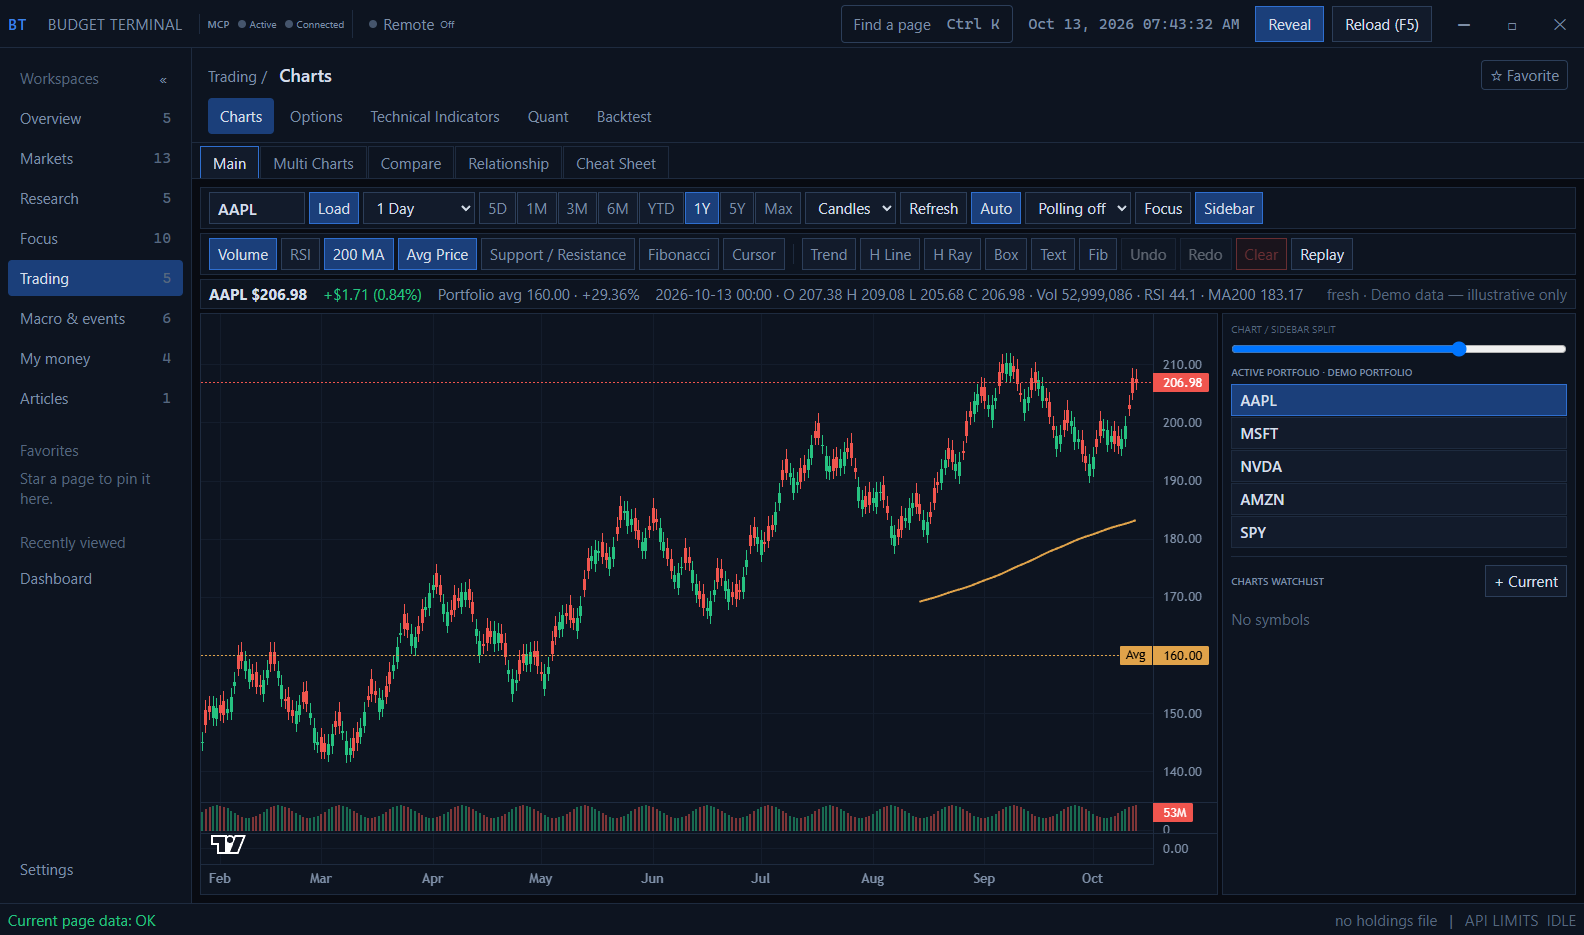
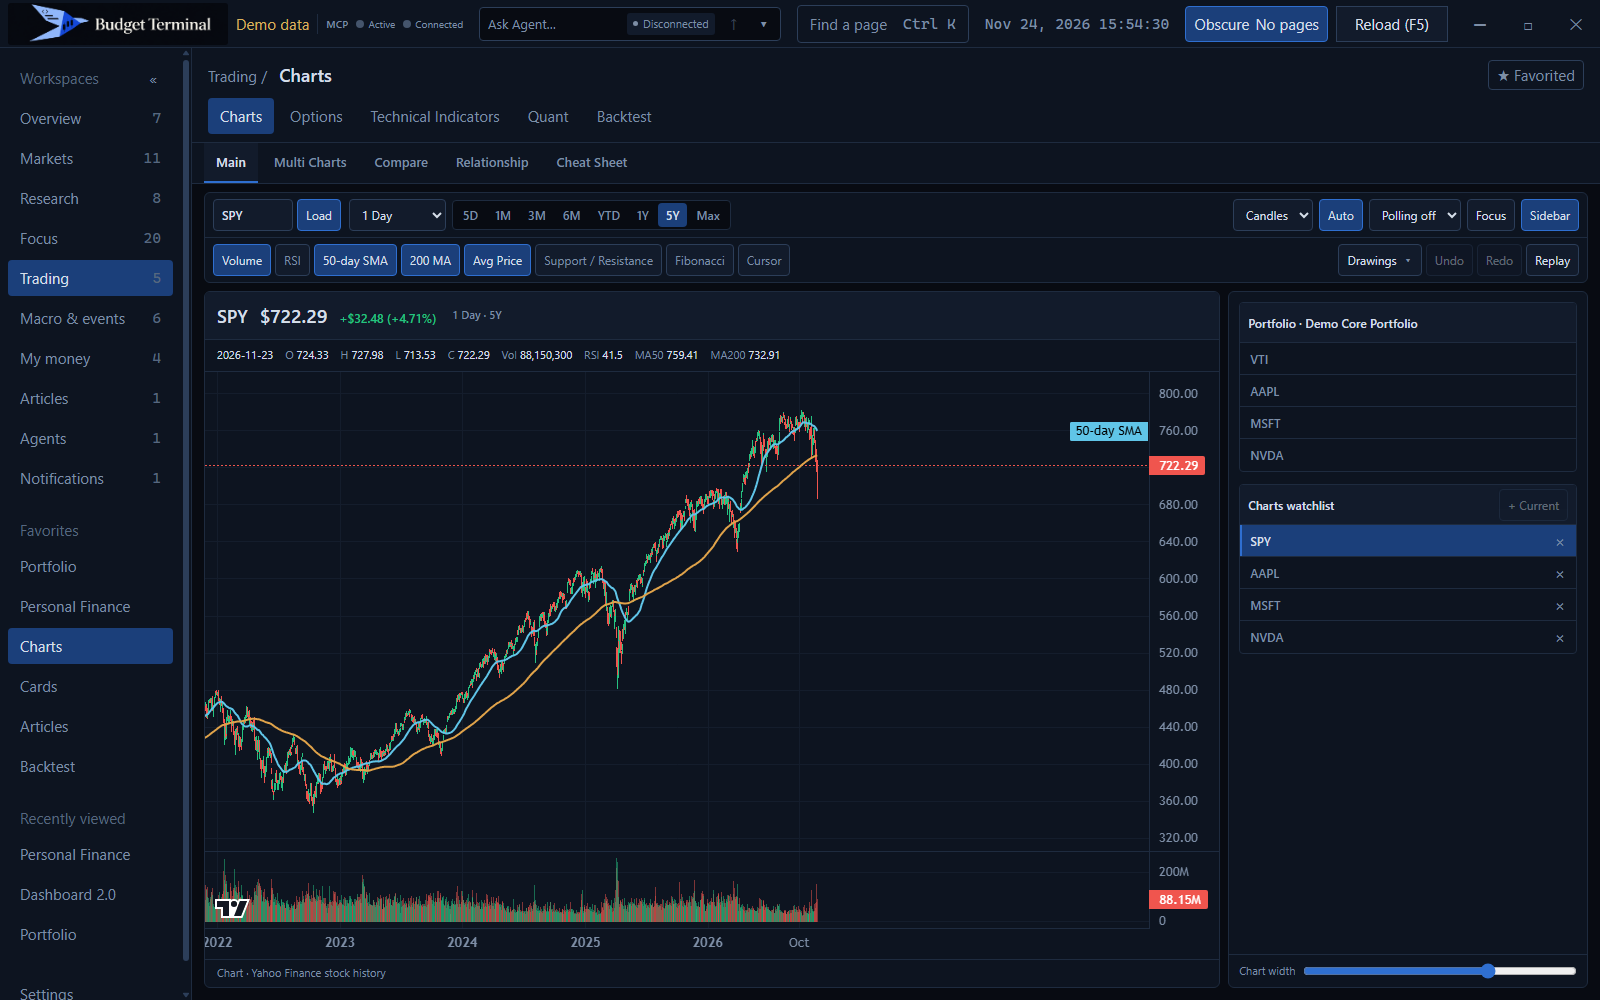
Refresh GitHub overview with desktop and mobile demo screenshots

diff --git a/README.md b/README.md
@@ -19,6 +19,7 @@
 <p align="center">
   <a href="#quick-start">Quick start</a> ·
   <a href="#screenshots">Screenshots</a> ·
+  <a href="#mobile-ui-showcase">Mobile UI</a> ·
   <a href="#explore-the-workspaces">Workspaces</a> ·
   <a href="#documentation">Documentation</a> ·
   <a href="https://github.com/Wong-Zhen-Yi/Budget-Terminal-2.0/issues">Report an issue</a>
@@ -49,86 +50,101 @@ research pages.
 | **Saved pages at launch** | Use cached content while every page refreshes. Settings controls separate page, market-data and image budgets, retention and cache diagnostics. |
 | **🔗 Extend your workspace** | Connect local research tools through MCP while keeping the workspace in the desktop app. |
 | **Work with Agents** | Use the embedded Codex workspace for research and local alerts, with autonomous mode off by default. |
+| **Use your phone** | Open a connected phone viewport on Windows, or enable private phone and tablet access through Tailscale. Telegram provides mobile links and agent quick prompts when configured. |
 
 ## Screenshots
 
-Explore eight views across markets, research, charting, portfolios, and learning.
-The captures use isolated demo profiles or isolated page components with synthetic
-fixtures. Holdings, prices, probabilities, headlines, and indicator values are
-illustrative sample data, not live quotes or personal records. See
-[capture details](docs/assets/screenshots/README.md).
+Captured from the **rendered desktop app** on 24 November 2026 using the checked-in
+[demo portfolio](fixtures/demo-user-data.json), with the full application shell and
+current dark theme. Holdings and financial records are fictional. Market panels
+use the usual public providers and may contain delayed, cached, or unavailable data.
+See [capture details](docs/assets/screenshots/README.md).
 
-### Dashboard
+### Portfolio
 
-Market snapshots, portfolio holdings, price action, analyst targets, and options
-in one workspace.
+The Demo Core Portfolio brings positions, cost basis, gains, cash, and portfolio
+controls together. A second Demo Income Portfolio is included in the demo profile.
 
-![Budget Terminal Dashboard with demo holdings, a candlestick chart, market snapshots, and options tables](docs/assets/screenshots/dashboard.png)
+![Rendered Portfolio in the isolated demo app](docs/assets/screenshots/portfolio.png)
 
-### Polymarket — prediction market research
+### Dashboard 2.0
 
-Discover events and inspect outcome probabilities, price history, order-book depth,
-and market activity in a read-only workspace.
+A portfolio-led overview with market context and research tools.
 
-![Polymarket demo showing searchable market cards, an outcome probability chart, bid and ask depth, and recent activity](docs/assets/screenshots/polymarket.png)
+![Rendered Dashboard 2.0 in the isolated demo app](docs/assets/screenshots/dashboard-2.png)
 
 <details>
-<summary><strong>Semiconductors — supply chain and sector research</strong></summary>
+<summary><strong>Personal Finance</strong></summary>
 
-Explore industry stages, filter companies by subsector, compare performance, and
-follow company research and earnings context.
+Sample accounts, assets, liabilities, recurring bills, and a savings goal.
 
-![Semiconductors demo showing supply-chain stages, a chip-design company table, subsector performance, and linked research panels](docs/assets/screenshots/semiconductors.png)
+![Rendered Personal Finance in the isolated demo app](docs/assets/screenshots/personal-finance.png)
 
 </details>
 
 <details>
-<summary><strong>Crypto — spot watchlist, perpetual charts, and market breadth</strong></summary>
+<summary><strong>Charts</strong></summary>
 
-Keep spot quotes, a candlestick and volume chart, equity proxies, market breadth,
-and venue-specific perpetual funding and open interest together.
+Price action, volume, technical tools, and demo portfolio watchlists.
 
-![Crypto demo showing a spot watchlist, BTC perpetual candlesticks and volume, a top-30 breadth grid, and perpetual market statistics](docs/assets/screenshots/crypto.png)
-
-</details>
-
-<details>
-<summary><strong>Scorecard — compare companies and valuation metrics</strong></summary>
-
-Compare annual financials, margins, valuation multiples, and signed revenue growth
-across companies. Choose metrics and save named comparisons locally.
-
-![Scorecard demo comparing AMZN, MSFT, and GOOGL financial and valuation metrics with a signed revenue-growth bar chart](docs/assets/screenshots/scorecard.png)
+![Rendered Charts in the isolated demo app](docs/assets/screenshots/charts.png)
 
 </details>
 
 <details>
-<summary><strong>Dictionary — offline learning and illustrated chart patterns</strong></summary>
+<summary><strong>Focus Dashboard</strong></summary>
 
-Search 405 offline entries, save terms, and study chart patterns with diagrams,
-confirmation criteria, invalidation conditions, and a reading outline.
+Find company, industry, digital-asset, commodity, and macro research topics.
+Each topic has its own research layout.
 
-![Dictionary Reading Room showing an Ascending Channel entry, an illustrated candlestick pattern, topic navigation, saved terms, and a reading outline](docs/assets/screenshots/dictionary.png)
-
-</details>
-
-<details>
-<summary><strong>Charts — price action and technical tools</strong></summary>
-
-Candlestick history, volume, moving averages, drawing tools, and portfolio context.
-
-![Budget Terminal Charts workspace with demo candlesticks, volume, a moving average, and a portfolio sidebar](docs/assets/screenshots/charts.png)
+![Rendered Focus Dashboard in the isolated demo app](docs/assets/screenshots/focus-dashboard.png)
 
 </details>
 
 <details>
-<summary><strong>Portfolio — positions and allocation</strong></summary>
+<summary><strong>Dictionary</strong></summary>
 
-Position values, gains, portfolio weights, and performance snapshots.
+Browse offline financial terms and illustrated chart patterns.
 
-![Budget Terminal Portfolio workspace with a five-position demo portfolio, gains, and allocation bars](docs/assets/screenshots/portfolio.png)
+![Rendered Dictionary in the isolated demo app](docs/assets/screenshots/dictionary.png)
 
 </details>
+
+## Mobile UI showcase
+
+The same workspace adapts to phones with stacked panels, touch-sized controls,
+collapsible tools, and swipeable tables. Tap the page name to open **Workspaces**
+and search or select a page.
+
+<p align="center">
+  <img src="docs/assets/screenshots/mobile-portfolio.png" alt="Mobile Portfolio with fictional demo holdings and compact controls" width="30%">
+  <img src="docs/assets/screenshots/mobile-dashboard-2.png" alt="Mobile Dashboard 2.0 with stacked demo portfolio panels" width="30%">
+  <img src="docs/assets/screenshots/mobile-workspaces.png" alt="Mobile Workspaces navigation with searchable grouped page pills" width="30%">
+</p>
+
+<details>
+<summary><strong>Mobile Charts — price history and compact chart tools</strong></summary>
+
+<p align="center">
+  <img src="docs/assets/screenshots/mobile-charts.png" alt="Rendered mobile Charts with SPY candles, volume, and the demo portfolio sidebar" width="320">
+</p>
+
+</details>
+
+**How it works:** Budget Terminal stays open on your computer and serves the mobile
+UI with its shared saved records and market services. Enable **Settings → Labs →
+Mobile Access**, connect your computer and phone to the same Tailscale account,
+and open the private link in your phone browser. Telegram's `/mobile` command can
+send you that link when configured. Mobile edits save to the desktop records;
+page navigation and scroll positions are independent.
+
+On Windows, **Open phone viewport** in Settings opens a connected, resizable local
+window without Tailscale. To try sample data, use
+[Launch Budget Terminal Mobile Preview.cmd](launchers/windows/Launch%20Budget%20Terminal%20Mobile%20Preview.cmd).
+The images above are actual renders of that disposable preview at 390 × 844 CSS
+pixels, rather than captures from physical phones. Demo profiles
+cannot be shared remotely. See the [Mobile Access guide](docs/mobile-access.md)
+for setup and device-specific behavior.
 
 ## Quick start
 
@@ -318,21 +334,23 @@ npm run build
 npm run preview --workspace budget-terminal-desktop
 ```
 
-The build produces application bundles. Installer packaging and automatic
-application updates are not configured.
+The build produces application bundles. Installer packaging is not configured.
+Source updates are available through Settings and the launcher commands above;
+relaunch to rebuild the app.
 
 </details>
 
 ## Explore the workspaces
 
-The current navigation includes **58 implemented pages**, including Settings.
+The current navigation includes **67 implemented pages**, including Settings and two optional Labs pages.
+Enable Dashboard Lite and News Lite from Settings → Labs.
 
 | Workspace | Pages |
 | :--- | :--- |
-| **Overview** | Dashboard, Dashboard 2.0, News, Calendar, YouTube, Dictionary |
-| **Markets** | Pre-Market, Heatmap, Up/Down, Trading Volumes, Beta, Market Cap, Price, ETF, S&P500, Forex, Crypto, Polymarket, Gold, Oil |
+| **Overview** | Dashboard, Dashboard 2.0, Dashboard Lite (Labs), Pre-Market, News, News Lite (Labs), Calendar, YouTube, Dictionary |
+| **Markets** | Heatmap, Up/Down, Trading Volumes, Beta, Market Cap, Price, ETF, S&P500, Forex, Crypto, Polymarket |
 | **Research** | Browser, Stocks, Discovery, Fundamentals, Scorecard, DefeatBeta Terminal, Valuation, Institutions |
-| **Focus** | BMNR, Bitcoin, PLTR, HOOD, HIMS, SOFI, MU, AMZN, AVGO, Semiconductors, VST |
+| **Focus** | Focus Dashboard, Macro, BMNR, Bitcoin, Ethereum, PLTR, HOOD, HIMS, SOFI, MU, GOOGL, Anthropic, AMZN, AVGO, NVDA, Semiconductors, Homebuilders, VST, Gold, Oil |
 | **Trading** | Charts, Options, Technical Indicators, Quant, Backtest |
 | **Macro & events** | Global, Economic, Bonds, Money, IPO, Politics |
 | **My money** | Portfolio, Personal Finance, Cards, Projections |
@@ -461,8 +479,10 @@ The current comparison loads at startup, including when Scorecard is unvisited.
 - **Visible data quality.** Supported panels show source, freshness, coverage, and
   partial-data issues. Public feeds can vary in availability; cached results keep
   their limitations visible. See [startup and data freshness](docs/user-guide.md#startup-and-data-freshness).
-- **Desktop-only workspace.** Open Budget Terminal in Electron. Remote browser
-  access, pairing, and the built-in web server are no longer included.
+- **Desktop and connected mobile.** Run the main workspace in Electron. Optional
+  Mobile Access serves the same records and market services to phones and tablets
+  over Tailscale while the app runs. Windows also offers a resizable local phone
+  viewport, and a disposable mobile preview uses demo records. See [Mobile Access](docs/mobile-access.md).
 - **Local MCP tools.** Connect research and saved-record tools to supported local
   clients. Write tools edit local records, not broker orders. See the [MCP setup guide](docs/local-mcp.md).
 - **Optional encrypted credentials.** Settings → Integrations can store Finnhub

diff --git a/docs/assets/screenshots/README.md b/docs/assets/screenshots/README.md
@@ -1,33 +1,64 @@
 # GitHub screenshot gallery
 
-These PNGs show implemented Budget Terminal views in the existing dark theme.
-All displayed financial records, market values, probabilities, headlines, and
-company comparison figures are illustrative samples. They are not live data.
+Captured on 24 November 2026 from the current production Electron build at
+1600 × 1000 CSS pixels, using the repository's disposable demo session.
+All six desktop images include the actual desktop navigation and the **Demo data** label.
 
-The Dashboard, Charts, and Portfolio captures use an isolated demo profile.
-The additional feature captures render the real React page components in isolated
-Electron windows with the application's built stylesheet and synthetic fixtures.
-They show page content without the desktop navigation shell. Electron user data,
-`APPDATA`, and `LOCALAPPDATA` are redirected to temporary directories; personal
-profiles, saved credentials, browser sessions, and Agent conversations are not used.
+| Image | Rendered page |
+| :--- | :--- |
+| [Portfolio](portfolio.png) | Demo Core Portfolio positions, cost basis, values, and gains |
+| [Dashboard 2.0](dashboard-2.png) | Demo portfolio, allocation, heatmap, and disconnected Agent workspace |
+| [Personal Finance](personal-finance.png) | Fictional cash, debts, recurring bills, and reserve goal |
+| [Charts](charts.png) | Provider price history, technical tools, and demo watchlists |
+| [Focus Dashboard](focus-dashboard.png) | Current company, sector, digital-asset, and macro topics |
+| [Dictionary](dictionary.png) | Offline reference with the Relative Strength Index entry |
 
-| Image | Feature | Capture source |
-| :--- | :--- | :--- |
-| [Dashboard](dashboard.png) | Market snapshots, holdings, charting, and options | Isolated demo profile |
-| [Charts](charts.png) | Candlesticks, volume, technical tools, and portfolio context | Isolated demo profile |
-| [Portfolio](portfolio.png) | Position values, gains, and allocation | Isolated demo profile |
-| [Polymarket](polymarket.png) | Market cards, probability history, depth, and activity | `probe-polymarket-ui.ts` synthetic fixture |
-| [Semiconductors](semiconductors.png) | Supply-chain stages, company filtering, and subsector returns | `probe-semiconductors-ui.ts` synthetic fixture |
-| [Crypto](crypto.png) | Spot watchlist, perpetual candles, breadth, and venue statistics | `probe-crypto-ui.ts` initial prepared demo state |
-| [Scorecard](scorecard.png) | Company financials, valuation columns, and revenue-growth comparison | `probe-scorecard-ui.ts` initial prepared demo state at a wider viewport |
-| [Dictionary](dictionary.png) | Offline terms, saved entries, and an illustrated Ascending Channel | `probe-dictionary-ui.ts` pattern capture |
+## Reproduce
 
-Capture sources are in `apps/desktop/scripts/`. The Crypto capture uses software
-rendering so the chart canvas appears in the exported PNG. The Scorecard capture
-stops after its initial data and chart checks, before interaction scenarios.
-Captures are direct Electron screenshots; no market values or UI elements were
-painted onto the images afterward.
+From the repository root with a supported Node.js runtime:
 
-Before publishing a new capture, inspect the entire image for personal data,
-empty charts, loading states, clipped content, and accidental error overlays.
-Keep demo labels and image descriptions in the root README accurate.
+```sh
+npm run build
+node scripts/capture-demo.cjs
+node scripts/capture-demo.cjs --mobile
+```
+
+The capture script starts the real built main process, preload, renderer, IPC,
+and data services. It seeds the checked-in [demo fixture](../../../fixtures/demo-user-data.json)
+through [demo-session.cjs](../../../scripts/demo-session.cjs), uses the page picker,
+and exports each window with Electron's `capturePage`. GPU rendering is disabled
+for reproducible chart canvas capture. No UI or values are painted onto the PNGs.
+
+Saved holdings and finance records are fictional. Market quotes, FX, fundamentals,
+and history come from the normal public providers during capture, so reproducing
+these screenshots can yield different values or coverage. The sample option may
+lack a mark; Personal Finance then shows incomplete net worth and an unavailable
+goal calculation. Some Focus tiles may lack provider metrics. These states are
+preserved in the captures.
+
+`APPDATA`, `LOCALAPPDATA`, application data, Downloads, browser storage, and
+`CODEX_HOME` are isolated in a fresh temporary directory and removed after exit.
+The script dismisses sign-in and uses the real Stop and New chat commands so no
+signed-in agent or personal conversation is needed. It does not use personal
+portfolios, browser sessions, or saved credentials; demo cloud sync is disabled.
+
+Inspect every image before publication for personal data, empty charts, loading
+states, clipping, and unexpected overlays. The root README uses the current desktop and mobile
+captures listed here. Other PNGs in this folder are older feature captures and
+are not part of the current gallery.
+
+## Mobile showcase
+
+The mobile capture uses the actual disposable Electron mobile preview at 390 × 844
+CSS pixels with a 2× emulated device density; exported PNGs are 390 × 844 pixels.
+It opens Portfolio, Dashboard 2.0, Charts, and Workspaces
+through the mobile navigation controls. These are responsive app renders, not
+physical-device screenshots or phone mockups. They do not establish Safari or
+Android-browser compatibility.
+
+| Image | Rendered mobile view |
+| :--- | :--- |
+| [Portfolio](mobile-portfolio.png) | Compact portfolio summary and demo positions |
+| [Dashboard 2.0](mobile-dashboard-2.png) | Stacked demo portfolio and allocation panels |
+| [Charts](mobile-charts.png) | Compact chart controls and price history |
+| [Workspaces](mobile-workspaces.png) | Searchable page pills grouped by workspace |
